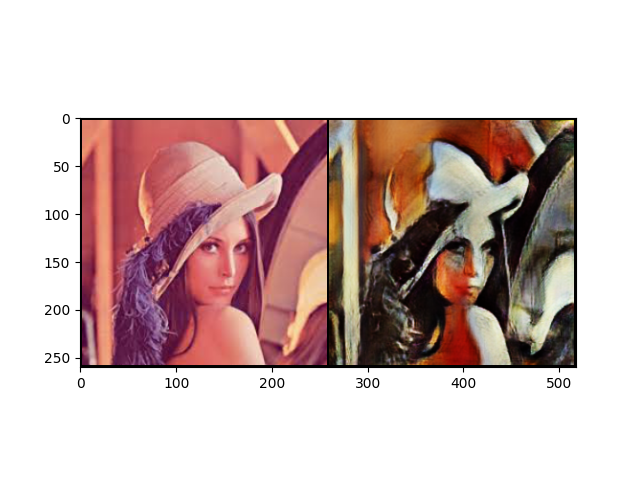
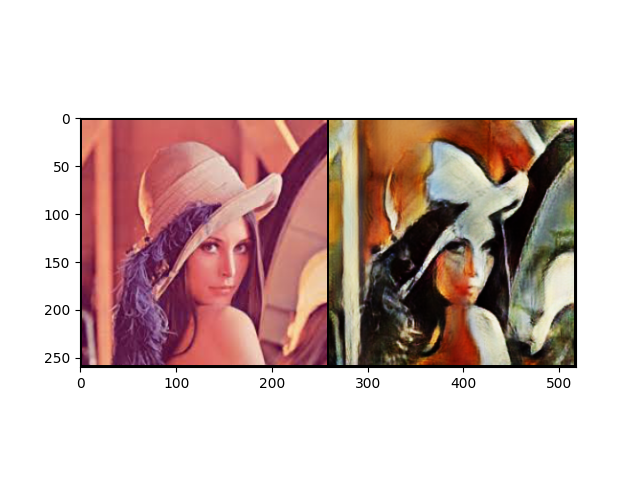
new images

diff --git a/test.py b/test.py
@@ -504,7 +504,7 @@ dis_optimizer = torch.optim.Adam(dis_params, lr=1e-4, betas=(0.5, 0.999))
 
 pretrained = True
 if pretrained:
-    pre_dict = torch.load(weights_ + 'MUNIT_base.pth')
+    pre_dict = torch.load(weights_ + 'MUNIT_999.pth')
     munit.gen_a.load_state_dict(pre_dict['gen_a'])
     munit.gen_b.load_state_dict(pre_dict['gen_b'])
     gen_optimizer.load_state_dict(pre_dict['gen_opt'])
